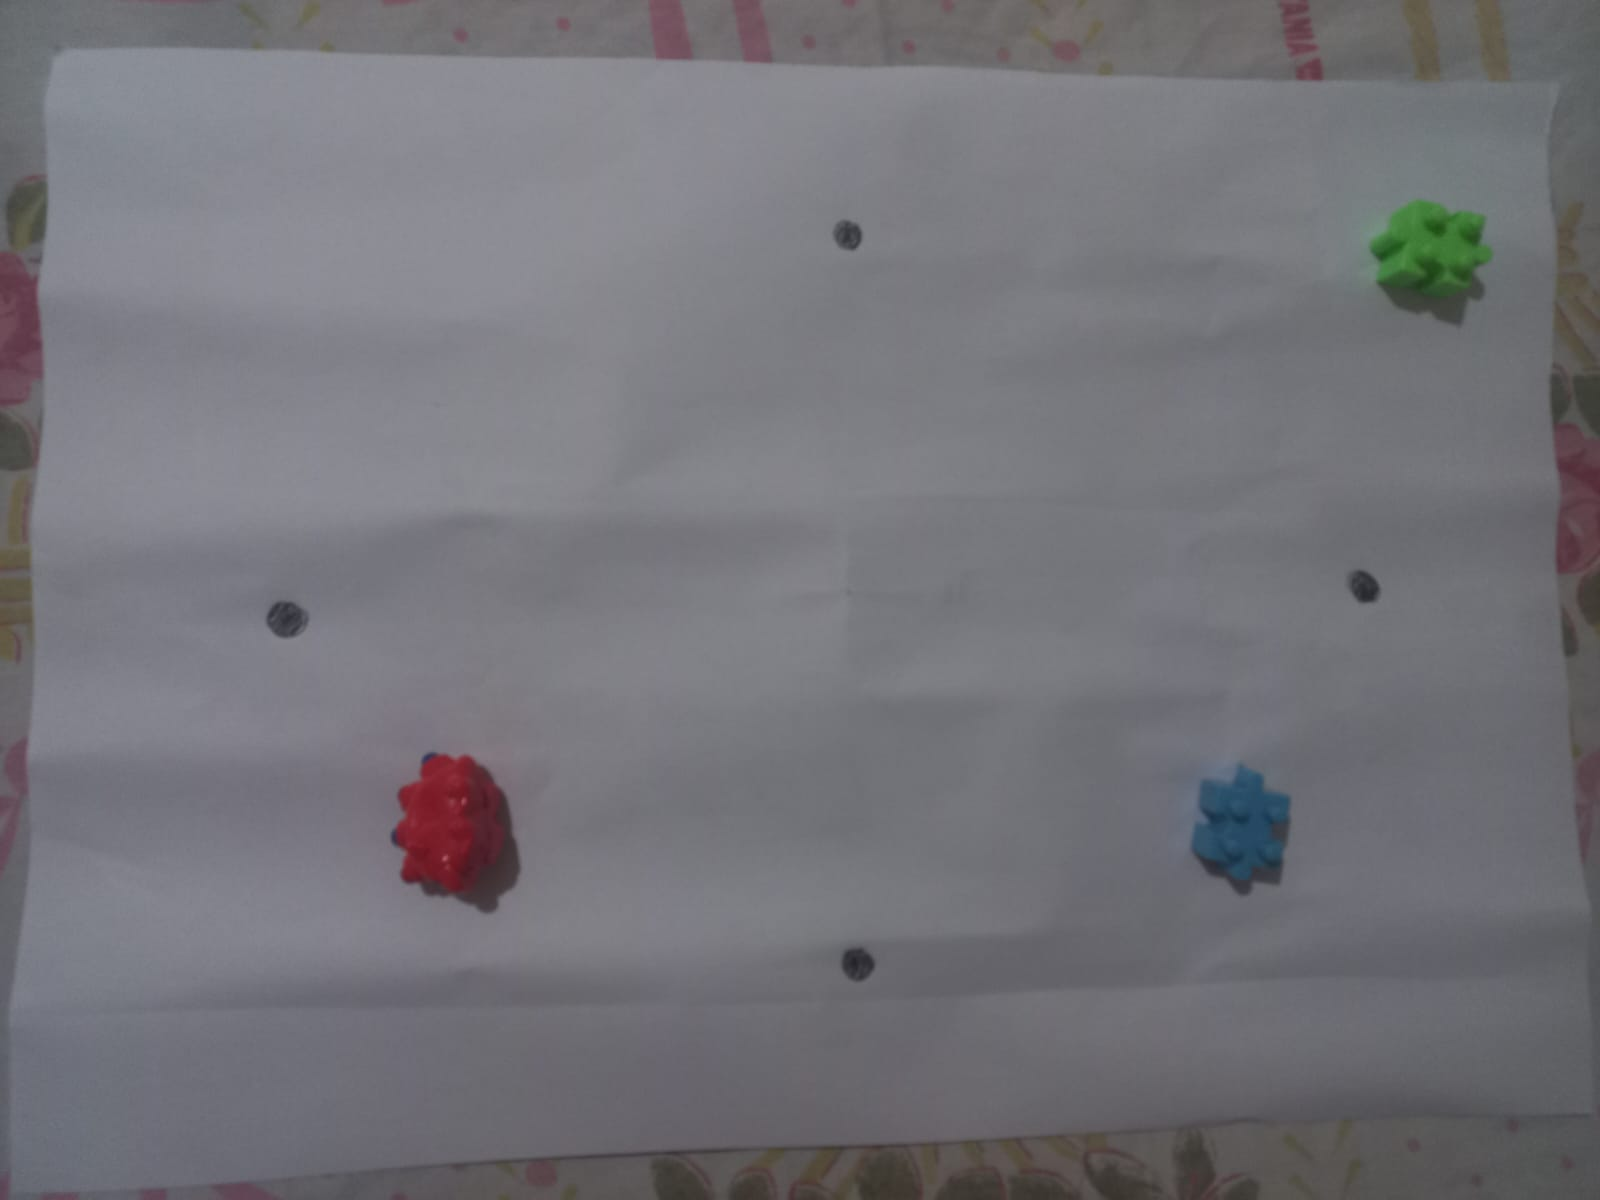
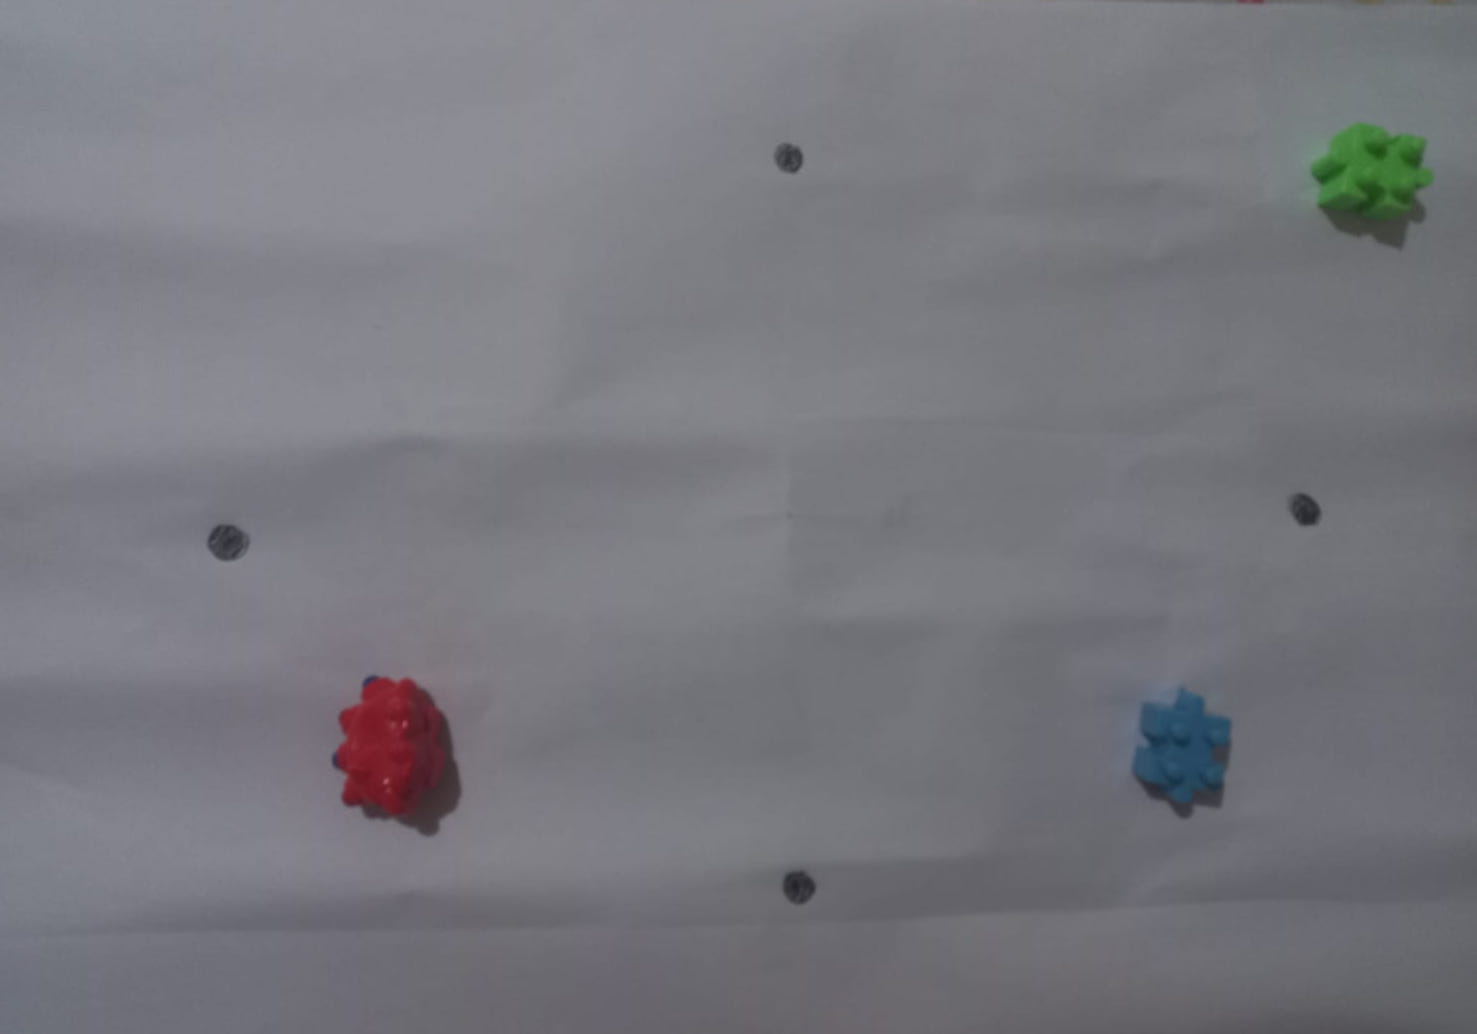
yay fixed 99%

diff --git a/firmware/src/calibrate.c b/firmware/src/calibrate.c
@@ -68,12 +68,14 @@ static int local_brightness(const Pixel *pixels, int w, int h, int cx, int cy)
 static int flood_blob(Pixel *pixels, int w, int h, int sx, int sy,
                       uint8_t visited[], int *qx, int *qy, int max_q,
                       uint32_t *out_x, uint32_t *out_y, int *out_span,
-                      int thresh, int abs_thresh, int min_blob, int max_span)
+                      int *out_chroma, int thresh, int abs_thresh,
+                      int min_blob, int max_span)
 {
     int head = 0, tail = 0;
     uint32_t sum_x = 0, sum_y = 0;
     int count = 0;
     int min_x = sx, max_x = sx, min_y = sy, max_y = sy;
+    int chroma_sum = 0;
 
     qx[tail] = sx; qy[tail] = sy; tail++;
     visited[sy * w + sx] = 1;
@@ -82,6 +84,14 @@ static int flood_blob(Pixel *pixels, int w, int h, int sx, int sy,
         int x = qx[head], y = qy[head]; head++;
         sum_x += (uint32_t)x; sum_y += (uint32_t)y;
         count++;
+        {
+            Pixel *p = &pixels[y * w + x];
+            int maxc = p->r > p->g ? (int)p->r : (int)p->g;
+            int minc = p->r < p->g ? (int)p->r : (int)p->g;
+            if ((int)p->b > maxc) maxc = (int)p->b;
+            if ((int)p->b < minc) minc = (int)p->b;
+            chroma_sum += maxc - minc;
+        }
         if (x < min_x) min_x = x;
         if (x > max_x) max_x = x;
         if (y < min_y) min_y = y;
@@ -117,6 +127,7 @@ static int flood_blob(Pixel *pixels, int w, int h, int sx, int sy,
     *out_x = sum_x / count;
     *out_y = sum_y / count;
     *out_span = span;
+    *out_chroma = count > 0 ? (chroma_sum / count) : 0;
     return (int)count;
 }
 
@@ -152,6 +163,10 @@ int calibrate_find_dots(Pixel *pixels, int w, int h,
     int blobs[32][5];
     int nblobs = 0;
 
+    int dot_max_span = max_span / 3;
+    if (dot_max_span < 8) dot_max_span = 8;
+    int dot_min_contrast = SEED_CONTRAST;
+
     for (int y = 0; y < h && nblobs < 32; y++) {
         for (int x = 0; x < w && nblobs < 32; x++) {
             if (visited[y * w + x]) continue;
@@ -164,19 +179,24 @@ int calibrate_find_dots(Pixel *pixels, int w, int h,
             uint32_t cx, cy;
             int flood_thresh = local_bright - FLOOD_CONTRAST;
             int span;
+            int avg_chroma = 0;
             int sz = flood_blob(pixels, w, h, x, y, visited, qx, qy, w * h,
-                                &cx, &cy, &span, flood_thresh, abs_thresh,
-                                min_blob, max_span);
+                                &cx, &cy, &span, &avg_chroma,
+                                flood_thresh, abs_thresh, min_blob, max_span);
             if (sz > 0) {
+                int contrast = local_bright - seed_bright;
+                if (span > dot_max_span) continue;
+                if (contrast < dot_min_contrast) continue;
+                if (avg_chroma > CALIB_DOT_MAX_CHROMA) continue;
                 blobs[nblobs][0] = (int)cx;
                 blobs[nblobs][1] = (int)cy;
                 blobs[nblobs][2] = sz;
                 blobs[nblobs][3] = span;
-                blobs[nblobs][4] = local_bright - seed_bright;
+                blobs[nblobs][4] = contrast;
 #if CALIB_DEBUG
-                printf("[CALIB] blob%2d: pixel(%4u,%4u) span=%d count=%d contrast=%d\n",
+                printf("[CALIB] blob%2d: pixel(%4u,%4u) span=%d count=%d contrast=%d chroma=%d\n",
                        nblobs, (unsigned)cx, (unsigned)cy, span, sz,
-                       local_bright - seed_bright);
+                       contrast, avg_chroma);
 #endif
                 nblobs++;
             }

diff --git a/pc/calibrate.c b/pc/calibrate.c
@@ -44,12 +44,14 @@ static int local_brightness(const Pixel *pixels, int w, int h, int cx, int cy)
 static int flood_blob(Pixel *pixels, int w, int h, int sx, int sy,
                       uint8_t visited[], int *qx, int *qy, int max_q,
                       uint32_t *out_x, uint32_t *out_y, int *out_span,
-                      int thresh, int abs_thresh, int min_blob, int max_span)
+                      int *out_chroma, int thresh, int abs_thresh,
+                      int min_blob, int max_span)
 {
     int head = 0, tail = 0;
     uint32_t sum_x = 0, sum_y = 0;
     int count = 0;
     int min_x = sx, max_x = sx, min_y = sy, max_y = sy;
+    int chroma_sum = 0;
 
     qx[tail] = sx; qy[tail] = sy; tail++;
     visited[sy * w + sx] = 1;
@@ -59,6 +61,14 @@ static int flood_blob(Pixel *pixels, int w, int h, int sx, int sy,
         sum_x += (uint32_t)x;
         sum_y += (uint32_t)y;
         count++;
+        {
+            Pixel *p = &pixels[y * w + x];
+            int maxc = p->r > p->g ? (int)p->r : (int)p->g;
+            int minc = p->r < p->g ? (int)p->r : (int)p->g;
+            if ((int)p->b > maxc) maxc = (int)p->b;
+            if ((int)p->b < minc) minc = (int)p->b;
+            chroma_sum += maxc - minc;
+        }
         if (x < min_x) min_x = x;
         if (x > max_x) max_x = x;
         if (y < min_y) min_y = y;
@@ -97,6 +107,7 @@ static int flood_blob(Pixel *pixels, int w, int h, int sx, int sy,
     *out_x = sum_x / count;
     *out_y = sum_y / count;
     *out_span = span;
+    *out_chroma = count > 0 ? (chroma_sum / count) : 0;
     return (int)count;
 }
 
@@ -139,6 +150,10 @@ int calibrate_find_dots(Pixel *pixels, int w, int h,
     int blobs[32][5];
     int nblobs = 0;
 
+    int dot_max_span = max_span / 3;
+    if (dot_max_span < 8) dot_max_span = 8;
+    int dot_min_contrast = SEED_CONTRAST;
+
     for (int y = 0; y < h && nblobs < 32; y++) {
         for (int x = 0; x < w && nblobs < 32; x++) {
             if (visited[y * w + x]) continue;
@@ -154,19 +169,24 @@ int calibrate_find_dots(Pixel *pixels, int w, int h,
             uint32_t cx, cy;
             int flood_thresh = local_bright - FLOOD_CONTRAST;
             int span;
+            int avg_chroma = 0;
             int sz = flood_blob(pixels, w, h, x, y, visited, qx, qy, w * h,
-                                &cx, &cy, &span, flood_thresh, abs_thresh,
-                                min_blob, max_span);
+                                &cx, &cy, &span, &avg_chroma,
+                                flood_thresh, abs_thresh, min_blob, max_span);
             if (sz > 0) {
                 int contrast = local_bright - seed_bright;
+                if (span > dot_max_span) continue;
+                if (contrast < dot_min_contrast) continue;
+                if (avg_chroma > CALIB_DOT_MAX_CHROMA) continue;
                 blobs[nblobs][0] = (int)cx;
                 blobs[nblobs][1] = (int)cy;
                 blobs[nblobs][2] = sz;
                 blobs[nblobs][3] = span;
                 blobs[nblobs][4] = contrast;
 #if CALIB_DEBUG
-                printf("[CALIB] blob%2d: pixel(%4u,%4u) span=%d count=%d contrast=%d\n",
-                       nblobs, (unsigned)cx, (unsigned)cy, span, sz, contrast);
+                printf("[CALIB] blob%2d: pixel(%4u,%4u) span=%d count=%d contrast=%d chroma=%d\n",
+                       nblobs, (unsigned)cx, (unsigned)cy, span, sz, contrast,
+                       avg_chroma);
 #endif
                 nblobs++;
             }

diff --git a/pc/test_full.c b/pc/test_full.c
@@ -109,10 +109,11 @@ static int local_brightness(const Pixel *pixels, int w, int h, int cx, int cy) {
 static int dbg_flood(Pixel *pixels, int w, int h, int sx, int sy,
                      uint8_t visited[], int *qx, int *qy, int max_q,
                      int *min_x, int *max_x, int *min_y, int *max_y,
-                     int thresh, int abs_thresh, int max_span)
+                     int *out_chroma, int thresh, int abs_thresh, int max_span)
 {
   int head = 0, tail = 0, count = 0;
   *min_x = sx; *max_x = sx; *min_y = sy; *max_y = sy;
+  int chroma_sum = 0;
   qx[tail] = sx; qy[tail] = sy; tail++;
   visited[sy * w + sx] = 1;
 
@@ -121,6 +122,14 @@ static int dbg_flood(Pixel *pixels, int w, int h, int sx, int sy,
   while (head < tail) {
     int x = qx[head], y = qy[head]; head++;
     count++;
+    {
+      Pixel *p = &pixels[y * w + x];
+      int maxc = p->r > p->g ? (int)p->r : (int)p->g;
+      int minc = p->r < p->g ? (int)p->r : (int)p->g;
+      if ((int)p->b > maxc) maxc = (int)p->b;
+      if ((int)p->b < minc) minc = (int)p->b;
+      chroma_sum += maxc - minc;
+    }
     if (x < *min_x) *min_x = x;
     if (x > *max_x) *max_x = x;
     if (y < *min_y) *min_y = y;
@@ -144,6 +153,7 @@ static int dbg_flood(Pixel *pixels, int w, int h, int sx, int sy,
       tail++;
     }
   }
+  *out_chroma = count > 0 ? (chroma_sum / count) : 0;
   return count;
 }
 
@@ -157,6 +167,9 @@ static int draw_blob_boxes(Pixel *pixels, int w, int h, int abs_thresh,
 
   int min_blob = MIN_DARK_BLOB > w * h / 10000 ? MIN_DARK_BLOB : w * h / 10000;
   int max_span = (w > h ? w : h) / 8;
+  int dot_max_span = max_span / 3;
+  if (dot_max_span < 8) dot_max_span = 8;
+  int dot_min_contrast = SEED_CONTRAST;
 
   if (verbose) {
     printf("\n=== Debug: All Dark Blobs (SEED_CONTRAST=%d, FLOOD_CONTRAST=%d) ===\n",
@@ -179,17 +192,20 @@ static int draw_blob_boxes(Pixel *pixels, int w, int h, int abs_thresh,
       int flood_thresh = local_bright - FLOOD_CONTRAST;
 
       int min_x, max_x, min_y, max_y;
+      int avg_chroma = 0;
       int count = dbg_flood(pixels, w, h, x, y, visited, qx, qy, w * h,
-                            &min_x, &max_x, &min_y, &max_y,
+                            &min_x, &max_x, &min_y, &max_y, &avg_chroma,
                             flood_thresh, abs_thresh, max_span);
       if (count < min_blob) continue;
       int span_x = max_x - min_x;
       int span_y = max_y - min_y;
       int span = span_x > span_y ? span_x : span_y;
-      if (filtered_only && span > max_span) continue;
       uint32_t cx = (uint32_t)(min_x + max_x) / 2;
       uint32_t cy = (uint32_t)(min_y + max_y) / 2;
       int contrast = local_bright - seed_bright;
+      if (filtered_only && span > dot_max_span) continue;
+      if (filtered_only && contrast < dot_min_contrast) continue;
+      if (filtered_only && avg_chroma > CALIB_DOT_MAX_CHROMA) continue;
 
       if (verbose) {
         printf("  blob%2d: pixel(%4u,%4u) span=%d count=%d contrast=%d  "

diff --git a/firmware/src/config.h b/firmware/src/config.h
@@ -29,6 +29,8 @@
 #define FLOOD_CONTRAST  3      /* Flood-fill neighbour contrast threshold (relaxed) */
 #define MIN_DARK_BLOB   20     /* Min pixel count (also scaled by w*h/10000) */
 
+#define CALIB_DOT_MAX_CHROMA 12 /* Max average (max-min) allowed for dots */
+
 #define CALIB_DEBUG     1
 
 /* ------------------------------------------------------------- */

diff --git a/pc/config.h b/pc/config.h
@@ -13,6 +13,8 @@
 #define FLOOD_CONTRAST  3      /* Flood-fill neighbour contrast threshold (relaxed) */
 #define MIN_DARK_BLOB   20     /* Min pixel count (also scaled by w*h/10000 dynamically) */
 
+#define CALIB_DOT_MAX_CHROMA 12 /* Max average (max-min) allowed for dots */
+
 #define CALIB_DEBUG     1
 
 #define WORKSPACE_X_MM  200.0f
